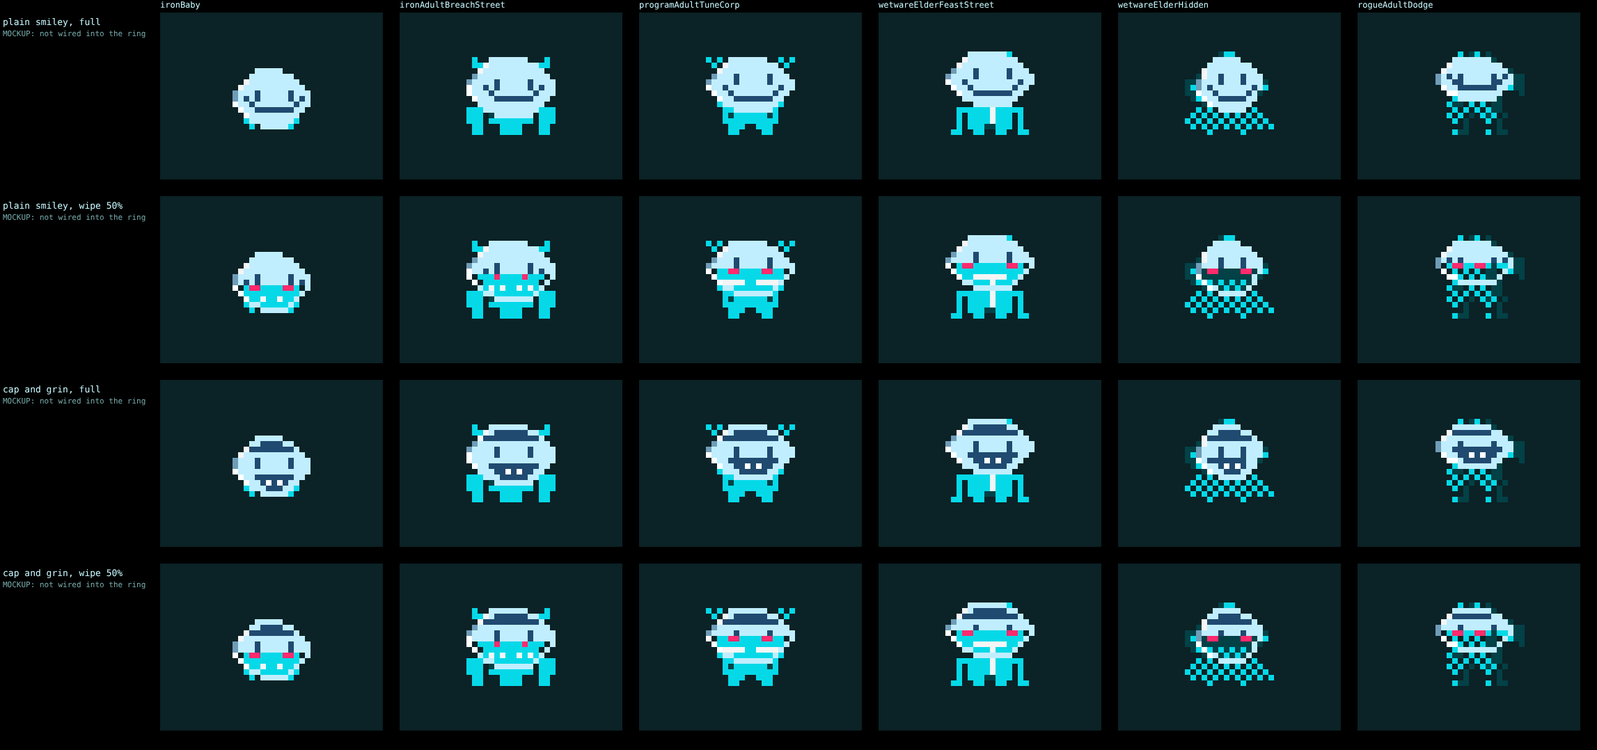
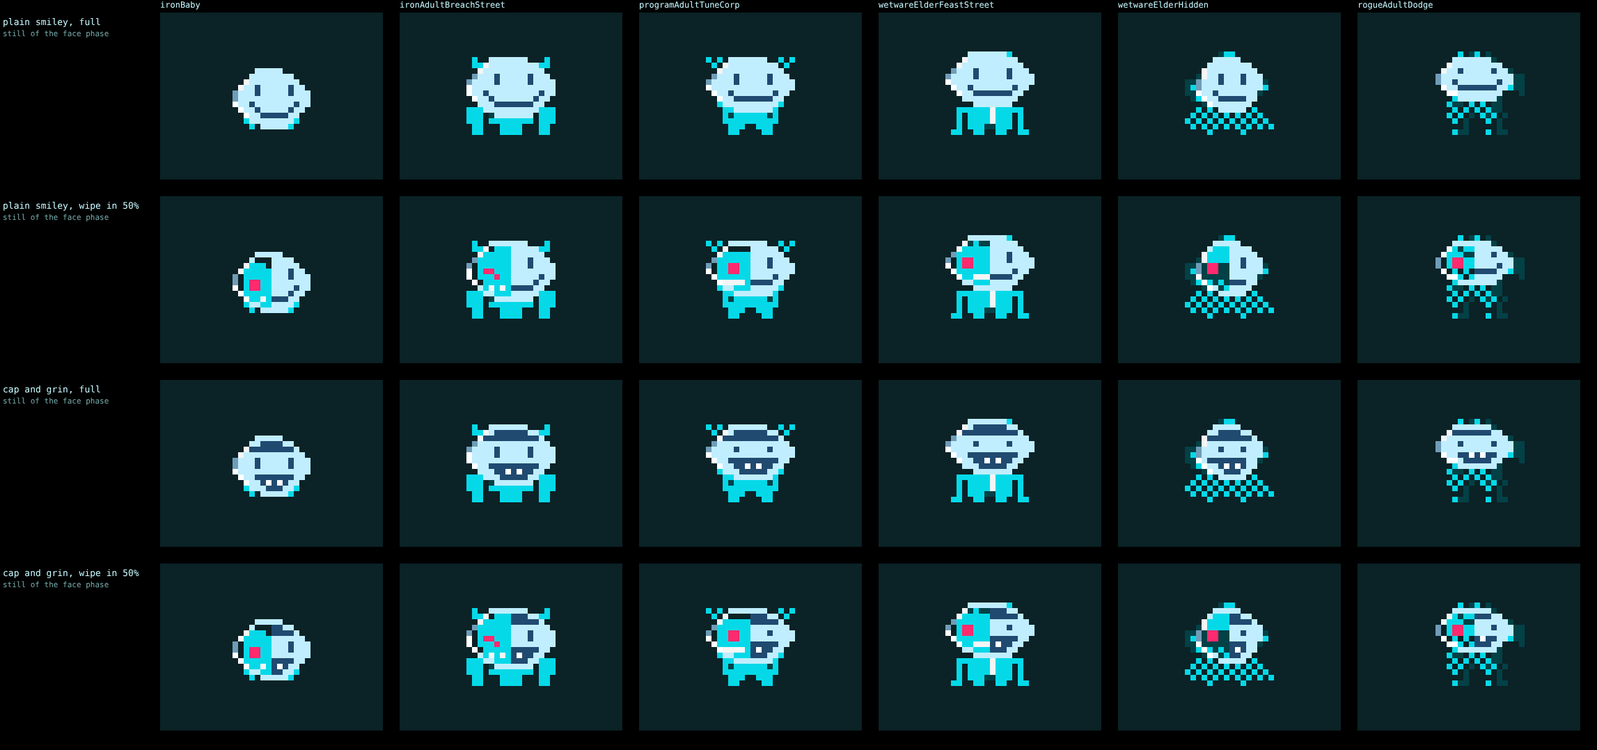
Light ring: the face phase, in two versions (smiley, cap and grin)
Every other lap the oval fills with a face from the right, holds 1.5 s and
clears from the right, while the glow keeps circling. The face layout is
computed per oval so the eyes always clear the mouth and cap (the first
smiley ran into its mouth on Rogue's Dodge adult). render.js calmWorn swaps
in a faceless ring asleep, in a visit and with reduced motion. Tests for the
layout on every form, the wipe and timing, and the calm swap.

Claude-Session: https://claude.ai/code/session_01Cs8Tn62A5tSs3mb1RKkHnQ

diff --git a/prototype/netling2/accessory-ideas.js b/prototype/netling2/accessory-ideas.js
@@ -204,12 +204,19 @@ export const IDEA_WEARABLES = [
       // colour for 200 ms; maintainer asked for a brighter ring and a faster pulse): a lap of about 2.5 to 4 s. Redrawn from the maintainer's memory of
       // the 2026-10-07 version for Blank (a continuous oval glow with a pulsing motion), which was never committed; the first redraw
       // (blue dashes, a dash every 400 ms) read as broken and shaded. Kept findable whole, motion included, as the doc says.
-      const [ring, glow] = colors ?? ['#c0eeff', '#ffffff'];
       // Behind the bright spot a dim wake moves with it (maintainer, 2026-10-12): two cells darker than the ring, then two halfway
       // back, then the ring again. The glow moves two cells a step, so every cell it passes shows white, dim and halfway for one step
-      // each (200 ms, the flash rule's floor).
-      drawRing(px, a, time, ring, glow);
+      // each (200 ms, the flash rule's floor). Every other lap the face (below, "the Light ring's face") wipes in and out.
+      ringWithFace('plain')(px, a, frame, time, colors);
     },
+    // Two versions, one per face (maintainer, 2026-10-12): this one with the plain smiley, laughingring.cap with the cap and grin.
+    variants: [
+      { id: 'laughingring', name: 'Light ring (smiley)', style: 'plain' },
+      { id: 'laughingring.cap', name: 'Light ring (cap and grin)', style: 'cap' },
+    ],
+    // What render.js calmWorn draws instead: no face asleep or in a visit, and a still ring with reduced motion.
+    quietId: 'laughingring.quiet',
+    stillId: 'laughingring.still',
   },
   {
     id: 'scanvisor',
@@ -512,15 +519,17 @@ function drawRing(px, a, time, ring, glow) {
   });
 }
 
-// --- the Light ring's face (mockups, 2026-10-12; not wired into the ring yet) ----------------------------------------------------
-// The maintainer's idea: every other lap the oval fills in with a smiley face, then clears, while the glow keeps circling; in and out
-// by a wipe, row by row from the top. Two face styles to compare, drawn as stills at a wipe stage: ringFace(px, a, style, shown),
-// where `shown` (0 to 1) is how much of the face the wipe has drawn, top down.
-//   plain: a smiley, two eyes and a grin.
-//   cap:   Laughing Man-ish: a cap (a dark dome and a brim line across the top), eyes under the brim, a wide grin with a tooth row.
-// The fill is the ring's colour, so ring and face read as one disc; the features are the wake's dark blue.
+// --- the Light ring's face (maintainer, 2026-10-12) --------------------------------------------------------------------------------
+// Every other lap the oval fills in with a face and clears again while the glow keeps circling. In and out by a wipe from right to left
+// both times: the face appears from the right edge, holds, then disappears from the right edge. Two versions of the ring, one per face:
+//   plain: a smiley, two eyes and a curved grin.
+//   cap:   Laughing Man-ish: a dark cap (dome and brim), eyes under it, a wide grin with a tooth row.
+// The fill is the ring's colour, so ring and face read as one disc; the features are the wake's dark blue. Not drawn asleep, during a
+// visit or with reduced motion (render.js calmWorn swaps in the faceless ring).
 export const FACE_STYLES = ['plain', 'cap'];
-// The cells inside the ring, row by row: { y0, y1, rows: Map(y -> [x0, x1]) }.
+export const FACE_MS = { fill: 800, hold: 1500, clear: 800 };
+const INK = '#204a70';
+// The cells inside the ring, row by row: { y0, y1, x0, x1, rows: Map(y -> [x0, x1]) }.
 export function ringInside(a) {
   const rows = new Map();
   for (const [x, y] of ringCells(a)) rows.set(y, [Math.min(x, rows.get(y)?.[0] ?? x), Math.max(x, rows.get(y)?.[1] ?? x)]);
@@ -530,67 +539,114 @@ export function ringInside(a) {
   const y0 = Math.min(...ys) + 1;
   const y1 = Math.max(...ys) - 1;
   for (const y of [...inside.keys()]) if (y < y0 || y > y1) inside.delete(y);
-  return { y0, y1, rows: inside };
+  const spans = [...inside.values()];
+  return { y0, y1, x0: Math.min(...spans.map((r) => r[0])), x1: Math.max(...spans.map((r) => r[1])), rows: inside };
 }
-export function ringFace(px, a, style, shown = 1, ring = '#c0eeff') {
-  const ink = '#204a70';
-  const { y0, y1, rows } = ringInside(a);
+// The face's features as cell lists, laid out top down so that the eyes always have a clear row between them and the mouth (and the
+// cap): on a small oval the eyes shrink to one row, the grin's corners climb one row instead of two, the cap loses its dome and the
+// toothy grin loses its bottom row. -> { eyes, mouth, cap, teeth } of [x, y].
+export function faceFeatures(a, style) {
+  const { y0, y1, x0: left, x1: right, rows } = ringInside(a);
   const H = y1 - y0 + 1;
-  const cx = Math.round((a.headLeft + a.headRight) / 2);
-  const last = y0 + Math.ceil(shown * H) - 1; // the wipe's lowest drawn row
-  const feature = new Map(); // "x,y" -> colour
-  const put = (x, y, c = ink) => feature.set(`${x},${y}`, c);
   const W = Math.max(...[...rows.values()].map(([x0, x1]) => x1 - x0 + 1));
-  const ex = Math.max(2, Math.round(W * 0.22)); // eye offset from the middle
+  const cx = Math.round((left + right) / 2); // the oval's middle, not the head's, so the face is symmetric inside it
+  const out = { eyes: [], mouth: [], cap: [], teeth: [] };
+  // keeps a cell only if it is inside its row of the oval with a cell to spare
+  const fits = (x, y) => rows.has(y) && x > rows.get(y)[0] && x < rows.get(y)[1];
+  const add = (part, x, y) => fits(x, y) && out[part].push([x, y]);
+  const ex = Math.max(2, Math.round(W * 0.22));
   if (style === 'plain') {
-    const eyeY = y0 + Math.round(H * 0.3);
-    for (const x of [cx - ex, cx + ex]) for (const dy of [0, 1]) put(x, eyeY + dy);
-    // a curved grin: a flat bottom and corners climbing two rows
-    const mY = y0 + Math.round(H * 0.72);
-    const mw = Math.max(2, Math.round(W * 0.3));
-    for (let x = cx - mw + 1; x <= cx + mw - 1; x++) put(x, mY);
-    for (const [d, dy] of [[mw, 1], [mw + 1, 2]]) {
-      put(cx - d, mY - dy);
-      put(cx + d, mY - dy);
-    }
+    const eh = H >= 8 ? 2 : 1;
+    const eyeY = y0 + Math.max(1, Math.round(H * 0.22));
+    for (const x of [cx - ex, cx + ex]) for (let dy = 0; dy < eh; dy++) add('eyes', x, eyeY + dy);
+    const top = eyeY + eh + 1; // the mouth's highest row: a clear row under the eyes
+    // corners climb two rows when there is height and width for it, else one
+    const climb = top + 2 <= y1 - 1 && W >= 10 ? 2 : 1;
+    const mY = Math.min(y1 - 1, Math.max(y0 + Math.round(H * 0.72), top + climb));
+    const mw = Math.max(2, Math.min(Math.round(W * 0.3), Math.floor(W / 2) - 1 - climb));
+    for (let x = cx - mw + 1; x <= cx + mw - 1; x++) add('mouth', x, mY);
+    for (let k = 1; k <= climb; k++) for (const d of [-(mw + k - 1), mw + k - 1]) add('mouth', cx + d, mY - k);
   } else {
-    // the cap: a dark dome over the top rows, a brim line under it reaching past the dome on the right
-    const brim = y0 + Math.max(1, Math.round(H * 0.22)) - (H <= 10 ? 1 : 0); // on small ovals a one-row dome, so the eyes keep a clear row above and below
+    const eh = H >= 9 ? 2 : 1;
+    const gh = H >= 8 ? 3 : 2;
+    const dome = Math.max(0, Math.min(Math.max(1, Math.round(H * 0.2)), H - (1 + 1 + eh + 1 + gh)));
+    const brim = y0 + dome;
     for (const [y, [x0, x1]] of rows) {
-      if (y < brim) for (let x = x0 + 1; x <= x1 - 1; x++) put(x, y);
-      if (y === brim) for (let x = x0; x <= x1; x++) put(x, y);
+      if (y < brim) for (let x = x0 + 1; x <= x1 - 1; x++) out.cap.push([x, y]);
+      if (y === brim) for (let x = x0; x <= x1; x++) out.cap.push([x, y]);
     }
     const eyeY = brim + 2;
-    for (const x of [cx - ex, cx + ex]) for (const dy of [0, 1]) put(x, eyeY + dy);
-    // the grin: a wide dark crescent with a row of teeth (white) inside it
-    const mY = Math.min(y1 - 2, eyeY + 3); // a clear row between the eyes and the grin (and the brim), so nothing joins into a frame
+    for (const x of [cx - ex, cx + ex]) for (let dy = 0; dy < eh; dy++) add('eyes', x, eyeY + dy);
+    const mY = eyeY + eh + 1;
     // Each grin row is centred on its own row of the oval and kept a cell inside it (the oval narrows towards the bottom).
     const mw = Math.max(3, Math.round(W * 0.36));
-    [0, 1, 2].forEach((dy) => {
+    for (let dy = 0; dy < gh; dy++) {
       const [x0, x1] = rows.get(mY + dy) ?? [cx, cx];
       const mid = Math.round((x0 + x1) / 2);
       const half = Math.min(mw - dy, Math.floor((x1 - x0) / 2) - 1);
-      for (let x = mid - half; x <= mid + half; x++) put(x, mY + dy, dy === 1 && x !== mid - half && x !== mid + half && (x - mid) % 2 ? '#ffffff' : ink);
-    });
+      for (let x = mid - half; x <= mid + half; x++) {
+        // every other cell of the teeth row (the middle row, or the top one on a two-row grin), or its one middle cell when narrow
+        const teethRow = gh === 3 ? 1 : 0;
+        const tooth = dy === teethRow && x !== mid - half && x !== mid + half && (half < 2 ? x === mid : (x - mid) % 2 !== 0);
+        add(tooth ? 'teeth' : 'mouth', x, mY + dy);
+      }
+    }
   }
-  for (const [y, [x0, x1]] of rows) {
-    if (y > last) continue;
-    for (let x = x0; x <= x1; x++) px(x, y, feature.get(`${x},${y}`) ?? ring);
-  }
+  return out;
 }
-// Mock entries for the review page only: the ring (glow where `time` puts it) with a face at a wipe stage. Ids
-// laughingring.face.<style>.<percent>.
+// Paints the face where show(x) is true (the wipe's mask), the fill everywhere else inside the ring.
+export function ringFace(px, a, style, show = () => true, ring = '#c0eeff') {
+  const f = faceFeatures(a, style);
+  const colour = new Map();
+  for (const part of ['eyes', 'mouth', 'cap']) for (const [x, y] of f[part]) colour.set(`${x},${y}`, INK);
+  for (const [x, y] of f.teeth) colour.set(`${x},${y}`, '#ffffff');
+  for (const [y, [x0, x1]] of ringInside(a).rows) for (let x = x0; x <= x1; x++) if (show(x)) px(x, y, colour.get(`${x},${y}`) ?? ring);
+}
+// Where the face is at `time`: null (not showing) or the wipe's mask over columns. The cycle is a whole number of laps (a lap is the
+// glow's way round, 100 ms a cell): the face starts at the second lap and the cycle is two laps, or three on a ring too small for the
+// face's 3.1 s to fit inside two, so the face never cuts off. The wipe moves a column at a time on a 100 ms clock.
+export function faceMask(a, time) {
+  const lap = ringCells(a).length * 100;
+  const total = FACE_MS.fill + FACE_MS.hold + FACE_MS.clear;
+  const laps = Math.max(2, 1 + Math.ceil(total / lap));
+  const u = Math.floor(((time ?? 0) % (laps * lap)) / 100) * 100 - lap;
+  if (u < 0 || u >= total) return null;
+  const { x0, x1 } = ringInside(a);
+  const width = x1 - x0 + 1;
+  if (u < FACE_MS.fill) {
+    const n = Math.ceil(((u + 100) / FACE_MS.fill) * width); // columns drawn so far, from the right
+    return (x) => x > x1 - n;
+  }
+  if (u < FACE_MS.fill + FACE_MS.hold) return () => true;
+  const gone = Math.ceil(((u - FACE_MS.fill - FACE_MS.hold + 100) / FACE_MS.clear) * width); // columns cleared, from the right
+  return (x) => x <= x1 - gone;
+}
+// The ring with its face phase, for each style.
+const ringWithFace = (style) => (px, a, frame, time = 0, colors) => {
+  const [ring, glow] = colors ?? ['#c0eeff', '#ffffff'];
+  const mask = faceMask(a, time);
+  if (mask) ringFace(px, a, style, mask, ring);
+  drawRing(px, a, time, ring, glow);
+};
+// The faceless rings render.js swaps in (calmWorn): asleep or in a visit the glow keeps circling; with reduced motion it stands still.
+export const RING_CALM = [
+  { id: 'laughingring.quiet', name: 'Light ring (asleep, in a visit)', draw: (px, a, frame, time = 0, colors) => drawRing(px, a, time, ...(colors ?? ['#c0eeff', '#ffffff'])) },
+  { id: 'laughingring.still', name: 'Light ring (reduced motion)', draw: (px, a, frame, time, colors) => drawRing(px, a, 0, ...(colors ?? ['#c0eeff', '#ffffff'])) },
+].map((x) => ({ ...x, slot: 'face', exclusive: true, version: 'only', paid: 'free (find)', colors: [['ring', '#c0eeff'], ['glow', '#ffffff']] }));
+// Stills for the review page: each face full and halfway through the wipe in (from the right). Ids laughingring.face.<style>.<percent>.
 export const RING_FACE_STAGES = [100, 50];
 export const RING_FACE_MOCKS = FACE_STYLES.flatMap((style) =>
   RING_FACE_STAGES.map((pct) => ({
     id: `laughingring.face.${style}.${pct}`,
-    name: `Light ring face: ${style === 'plain' ? 'plain smiley' : 'cap and grin'}, ${pct === 100 ? 'full' : `wipe ${pct}%`}`,
+    name: `Light ring face: ${style === 'plain' ? 'plain smiley' : 'cap and grin'}, ${pct === 100 ? 'full' : `wipe in ${pct}%`}`,
     slot: 'face',
     exclusive: true,
     version: 'only',
     paid: 'mockup',
     draw: (px, a, frame, time = 0) => {
-      ringFace(px, a, style, pct / 100);
+      const { x0, x1 } = ringInside(a);
+      const n = Math.ceil(((x1 - x0 + 1) * pct) / 100);
+      ringFace(px, a, style, (x) => x > x1 - n);
       drawRing(px, a, time, '#c0eeff', '#ffffff');
     },
   })),
@@ -849,6 +905,7 @@ const freeOf = (x, args) =>
 const versions = (list, args) =>
   list.flatMap((x) => {
     const base = { ...x, base: x.id };
+    if (x.variants) return x.variants.map((v) => ({ ...base, id: v.id, name: v.name, version: 'only', draw: args === 'wear' ? ringWithFace(v.style) : x.draw }));
     if (x.paid !== 'split' && x.paid !== 'paid') return [{ ...base, version: 'only' }];
     return [
       { ...base, id: x.id + FREE, name: `${x.name} (free)`, version: 'free', draw: freeOf(x, args) },
@@ -865,8 +922,8 @@ export function registerIdeas() {
   if (registered) return;
   registered = true;
   const taken = new Set(STYLE_ITEMS.map((x) => x.id));
-  for (const x of [...WEARABLE_ENTRIES, HEATSINK_HOT, ...RING_FACE_MOCKS, ...PROP_ENTRIES]) if (taken.has(x.id)) throw new Error(`style idea ${x.id} clashes with a 1.0 id`);
-  for (const x of [...WEARABLE_ENTRIES, HEATSINK_HOT, ...RING_FACE_MOCKS]) {
+  for (const x of [...WEARABLE_ENTRIES, HEATSINK_HOT, ...RING_CALM, ...RING_FACE_MOCKS, ...PROP_ENTRIES]) if (taken.has(x.id)) throw new Error(`style idea ${x.id} clashes with a 1.0 id`);
+  for (const x of [...WEARABLE_ENTRIES, HEATSINK_HOT, ...RING_CALM, ...RING_FACE_MOCKS]) {
     const entry = { ...x, rarity: 'common', source: 'earned', draw: x.draw };
     ACCESSORIES.push(entry);
     STYLE_ITEMS.push(entry);

diff --git a/prototype/netling2/accessory-ideas.test.js b/prototype/netling2/accessory-ideas.test.js
@@ -5,10 +5,10 @@ import './ready.js';
 import { test } from 'node:test';
 import assert from 'node:assert/strict';
 import { readFileSync } from 'node:fs';
-import { ringCells, registerIdeas, IDEA_WEARABLES, IDEA_PROPS, IDEA_CRESTS, WEARABLE_ENTRIES, PROP_ENTRIES, HEATSINK_HOT, FREE } from './accessory-ideas.js';
+import { ringCells, faceFeatures, faceMask, ringInside, FACE_MS, registerIdeas, IDEA_WEARABLES, IDEA_PROPS, IDEA_CRESTS, WEARABLE_ENTRIES, PROP_ENTRIES, HEATSINK_HOT, FREE } from './accessory-ideas.js';
 import { ACCESSORIES, PROPS, placeWorn, anchorsFor } from '../../src/accessories.js';
 import { FLASH_TOGGLE_MS } from '../../src/games/common.js';
-import { composeLCD, exclusiveWorn } from './render.js';
+import { composeLCD, exclusiveWorn, calmWorn } from './render.js';
 import { forms } from './models.js';
 import { programForms } from './program-models.js';
 import { wetwareForms } from './wetware-models.js';
@@ -184,4 +184,76 @@ test('the Light ring is worn alone on the face and over its area: other face ite
     }
   }
   assert.ok(keptSomething, 'something clear of the ring (the halo over the head) is still drawn on some form');
+});
+
+test('the Light ring\'s faces: on every form the eyes keep a clear row from the mouth and the cap, and every part shows', () => {
+  for (const { form } of ALL) {
+    for (const sprite of [form.a, form.b]) {
+      for (const style of ['plain', 'cap']) {
+        const f = faceFeatures(anchorsFor(sprite), style);
+        assert.equal(f.eyes.length >= 2, true, `${form.id} ${style}: eyes`);
+        assert.ok(f.mouth.length >= 3, `${form.id} ${style}: mouth`);
+        if (style === 'cap') assert.ok(f.cap.length >= 3 && f.teeth.length >= 1, `${form.id}: cap and teeth`);
+        const other = new Set([...f.mouth, ...f.cap, ...f.teeth].map(([x, y]) => `${x},${y}`));
+        for (const [x, y] of f.eyes) for (const dx of [-1, 0, 1]) for (const dy of [-1, 0, 1]) assert.ok(!other.has(`${x + dx},${y + dy}`), `${form.id} ${style}: an eye at ${x},${y} touches the mouth or cap`);
+      }
+    }
+  }
+});
+
+test('the face wipes in and out from right to left, every other lap (or third, on a small ring), and never cuts off', () => {
+  for (const { form } of [ALL[0], ...ALL.filter(({ form }) => ['ironAdultBreachStreet', 'rogueAdultDodge', 'wetwareElderHidden'].includes(form.id))]) {
+    const a = anchorsFor(form.a);
+    const { x0, x1 } = ringInside(a);
+    const lap = ringCells(a).length * 100;
+    const total = FACE_MS.fill + FACE_MS.hold + FACE_MS.clear;
+    const laps = Math.max(2, 1 + Math.ceil(total / lap));
+    assert.ok(lap + total <= laps * lap, `${form.id}: the face fits its cycle`);
+    const cols = (t) => {
+      const m = faceMask(a, t);
+      const out = [];
+      if (m) for (let x = x0; x <= x1; x++) if (m(x)) out.push(x);
+      return out;
+    };
+    assert.equal(faceMask(a, 0), null, 'no face in the first lap');
+    assert.equal(faceMask(a, lap - 100), null);
+    let prev = [];
+    for (let t = lap; t < lap + FACE_MS.fill; t += 100) {
+      const c = cols(t);
+      assert.ok(c.length && c.at(-1) === x1 && c.length >= prev.length, `${form.id} at ${t}: fills from the right`);
+      prev = c;
+    }
+    assert.equal(cols(lap + FACE_MS.fill).length, x1 - x0 + 1, 'full when the hold starts');
+    prev = cols(lap + FACE_MS.fill);
+    for (let t = lap + FACE_MS.fill + FACE_MS.hold; t < lap + total; t += 100) {
+      const c = cols(t);
+      assert.ok(c.length < prev.length && (!c.length || c[0] === x0), `${form.id} at ${t}: clears from the right`);
+      prev = c;
+    }
+    assert.equal(faceMask(a, lap + total), null, 'gone after the clear');
+    assert.ok(faceMask(a, laps * lap + lap + FACE_MS.fill), 'and back the next cycle');
+  }
+});
+
+test('both versions of the Light ring draw a face; asleep, in a visit and with reduced motion the renderer draws the faceless ring', () => {
+  const form = SETS.iron.ironAdultBreachStreet;
+  const a = anchorsFor(form.a);
+  const lap = ringCells(a).length * 100;
+  const pic = (id, t) => pixels((px) => ACCESSORIES.find((x) => x.id === id).draw(px, a, 0, t));
+  for (const id of ['laughingring', 'laughingring.cap']) assert.ok(pic(id, lap + 1000).split(' ').length > pic(id, 0).split(' ').length + 20, `${id} fills in`);
+  assert.notEqual(pic('laughingring', lap + 1000), pic('laughingring.cap', lap + 1000), 'two different faces');
+  for (const id of ['laughingring', 'laughingring.cap']) {
+    assert.deepEqual(calmWorn([{ id }, { id: 'halo' }], { calm: true }), [{ id: 'laughingring.quiet' }, { id: 'halo' }]);
+    assert.deepEqual(calmWorn([{ id }], { reduced: true }), [{ id: 'laughingring.still' }]);
+    assert.deepEqual(calmWorn([{ id }]), [{ id }]);
+  }
+  const ringOnly = ringCells(a).length;
+  for (let t = 0; t < 20_000; t += 100) assert.equal(pic('laughingring.quiet', t).split(' ').length, ringOnly, 'no face while quiet');
+  assert.equal(new Set([0, 3000, 9999].map((t) => pic('laughingring.still', t))).size, 1, 'still with reduced motion');
+  // Through the renderer: asleep, visiting and reduced all swap the ring.
+  const op = (pet, opts) => composeLCD({ form, egg: 'iron', idle: 'none', worn: [{ id: 'laughingring.cap' }], ...pet }, lap + 1000, opts).ops.find((o) => o.op === 'worn').list[0].id;
+  assert.equal(op({}), 'laughingring.cap');
+  assert.equal(op({ pose: 'sleep' }), 'laughingring.quiet');
+  assert.equal(op({ visit: true }), 'laughingring.quiet');
+  assert.equal(op({}, { reduced: true }), 'laughingring.still');
 });

diff --git a/prototype/netling2/accessory-ideas-preview.html b/prototype/netling2/accessory-ideas-preview.html
@@ -8,6 +8,7 @@
 // (render.js composeLCD), idle off so only the item moves. Sections by the hash (scale=n, t=ms freezes the clock for a screenshot):
 //   #sec=wear     every wearable entry (free and paid side by side for split and paid ideas) on six forms, one per egg plus a baby and Blank (Wetware's hidden elder, with its motion layer)
 //   #sec=motion   the moving wearables on one form, one column per 400 ms step (form=n, only=id)
+//   #sec=versions the Light ring's two versions (smiley, cap and grin) live
 //   #sec=face     mockups of the ring's face phase: two styles, full and mid-wipe
 //   #sec=ring     the Light ring alone, an outfit, and the outfit with the ring (what the ring hides)
 //   #sec=props    every prop entry beside one form, and the moving ones per step
@@ -86,9 +87,13 @@ if (SEC === 'wear') {
   const steps = Array.from({ length: 10 }, (_, i) => i);
   const ms = Number(hash.get('ms') ?? 400);
   sheet(rows, steps, (e) => [e.name.replace(/ \(paid\)$/, ''), e.version === 'paid' ? tag(e) : e.paid], (e, s) => composeLCD({ ...f, idle: 'none', worn: [{ id: e.id }] }, s * ms + 1), (s) => `${s * ms} ms`);
+} else if (SEC === 'versions') {
+  // The Light ring's two versions live: the face wipes in from the right every other lap, holds, and clears from the right.
+  const rows = [{ id: 'laughingring', name: 'Light ring (smiley)' }, { id: 'laughingring.cap', name: 'Light ring (cap and grin)' }];
+  sheet(rows, FORMS, (r) => [r.name, 'face every other lap'], (r, f, t) => composeLCD({ ...f, idle: 'none', worn: [{ id: r.id }] }, t + 1), (f) => f.form.id);
 } else if (SEC === 'face') {
-  // Mockups of the Light ring's face phase (accessory-ideas.js ringFace): two styles, full and halfway through the wipe.
-  sheet(RING_FACE_MOCKS, FORMS, (e) => [e.name.replace('Light ring face: ', ''), 'MOCKUP: not wired into the ring'], (e, f, t) => composeLCD({ ...f, idle: 'none', worn: [{ id: e.id }] }, t + 1), (f) => f.form.id);
+  // Stills of the Light ring's two faces (accessory-ideas.js ringFace): full and halfway through the wipe in, from the right.
+  sheet(RING_FACE_MOCKS, FORMS, (e) => [e.name.replace('Light ring face: ', ''), 'still of the face phase'], (e, f, t) => composeLCD({ ...f, idle: 'none', worn: [{ id: e.id }] }, t + 1), (f) => f.form.id);
 } else if (SEC === 'ring') {
   // The Light ring's exclusion (render.js exclusiveWorn): an outfit without the ring, then the same outfit with it, where the face item
   // and anything on or inside the ring are not drawn.

diff --git a/prototype/netling2/render.js b/prototype/netling2/render.js
@@ -175,7 +175,7 @@ export function composeLCD(pet, time, opts = {}) {
 
   // 5. Wearables, on the registered frame the tell wears (Program's blink keeps them on the open-eyed frame).
   if (worn.length && !form.hideWorn?.({ time, reduced })) {
-    const list = exclusiveWorn(worn, form[wearKey], { frame: tell.frame, time, pal });
+    const list = exclusiveWorn(calmWorn(worn, { calm: rest || visiting, reduced }), form[wearKey], { frame: tell.frame, time, pal });
     ops.push({ op: 'worn', list, sprite: form[wearKey], x, y, frame: tell.frame, dim: dimPet, time, pal });
   }
 
@@ -198,6 +198,16 @@ export function composeLCD(pet, time, opts = {}) {
   // 8. The Z while resting.
   if (rest) ops.push({ op: 'rows', rows: SPRITES.z, x: 30, y: 3 + TOP + frame, colors: { '#': dimPet ? Z_DIM : pal.main } });
   return { bg, ops, box };
+}
+
+// A wearable can name a calmer stand-in: `quietId` drawn while resting or in a visit, `stillId` with reduced motion (so far only the style
+// ideas' Light ring, whose face phase stops). 1.0's wearables name none and pass through unchanged.
+export function calmWorn(list, { calm = false, reduced = false } = {}) {
+  return list.map((w) => {
+    const acc = accessoryById(w.id);
+    const id = (reduced && acc?.stillId) || (calm && acc?.quietId) || w.id;
+    return id === w.id ? w : { ...w, id };
+  });
 }
 
 // An exclusive wearable (`exclusive: true` on its entry; so far only the style ideas' Light ring, accessory-ideas.js) is worn alone in its

diff --git a/docs/NETLING_2_ACCESSORY_IDEAS.md b/docs/NETLING_2_ACCESSORY_IDEAS.md
@@ -202,13 +202,13 @@ Every table above has a **Paid?** column. There is no monetization in 1.0 or in 
 
 ## Art drafts (2026-10-12)
 
-First drafts of every wearable (26), prop (10) and crest (5) above, in `prototype/netling2/accessory-ideas.js`. Shells, tints, effects, sounds, music and labels are not drawn. Wearables use 1.0's `draw(px, anchors, frame, time)`, props `draw(px, frame, time, extra)` with a size, crests 9x9; `registerIdeas()` adds them to 1.0's tables at run time (prototype only, `src/` untouched, `source: 'earned'` so they never enter drops, shops or visitor gifts), so the real `placeWorn` and `drawProp` place them through the 2.0 renderer.
+First drafts of every wearable (26, the Light ring in two versions), prop (10) and crest (5) above, in `prototype/netling2/accessory-ideas.js`. Shells, tints, effects, sounds, music and labels are not drawn. Wearables use 1.0's `draw(px, anchors, frame, time)`, props `draw(px, frame, time, extra)` with a size, crests 9x9; `registerIdeas()` adds them to 1.0's tables at run time (prototype only, `src/` untouched, `source: 'earned'` so they never enter drops, shops or visitor gifts), so the real `placeWorn` and `drawProp` place them through the 2.0 renderer.
 
 - **The Laughing Man ring, as the Light ring** (maintainer, 2026-10-12: shown under a different name; id still `laughingring`, nothing reserved). The 2026-10-07 drawing for Blank was never committed. A first redraw from the description (blue dashes, one white dash travelling) was rejected as broken and shaded; it is now drawn from the maintainer's memory of the original: **an unbroken pale oval** (`#c0eeff`, brightened from `#8fd8ff` at the maintainer's ask, one cell wide, every cell touching the next) from two cells outside the head's sides and two rows over the head top to two rows under the mouth, clear of the outline so it reads as a glow round the head, with **a glow sliding round it counterclockwise** (three white cells with a dim wake behind them that moves with the spot, maintainer 2026-10-12: two cells darker than the ring, then two halfway back; two cells every 200 ms: a lap of about 2.5 to 4 s; sped up at the maintainer's ask to the fastest the flash rule allows, since each cell must hold a colour for `FLASH_TOGGLE_MS`). Recolorable (ring and glow), so the blend check never splits it into two tones over the body. **It is exclusive** (maintainer): worn, it hides every other face item and any worn item with a pixel on the ring or inside it (row by row), which in practice is every head item; float items over the head and body items below the mouth stay. This lives in the prototype renderer (`render.js` `exclusiveWorn`, driven by `exclusive: true` on the item; 1.0's lists pass through unchanged); a 2.0 wardrobe would need to grey out what it hides. Before this it had only been seen on the Wetware hidden line; the review page shows it on six forms including Blank (`wetwareElderHidden`), and `#sec=ring` shows an outfit with and without it. GIF: `style-ideas-light-ring.gif` (6 s, all three rows of `#sec=ring`).
-- **The Light ring's face (mockups, 2026-10-12; not wired in).** The maintainer's idea: every other lap the oval fills in with a smiley face and clears again, by a wipe row by row from the top, while the glow keeps circling. Two styles, both asked for: a **plain smiley** (two eyes, a curved grin) and **cap and grin** (Laughing Man-ish: a dark cap and brim, eyes, a wide grin with a tooth row). The fill is the ring's colour, the features the wake's dark blue (`ringFace` in `accessory-ideas.js`; mock ids `laughingring.face.<style>.<percent>`). Review page `#sec=face` (full and halfway through the wipe on six forms), screenshot `style-ideas-light-ring-faces.png`. Words do not fit at this size. Open before wiring it in: which style; the timing (proposed: fill 0.8 s, hold 1.5 s, clear 0.8 s, every other lap); the face covers the eyes, so it should pause while asleep and during a visit; reduced motion shows the plain ring.
+- **The Light ring's face (2026-10-12, wired in).** Every other lap the oval fills in with a face and clears again while the glow keeps circling (maintainer). In and out by a **wipe from right to left both times**: the face appears from the right edge, holds, and disappears from the right edge. Timing (decided): fill 0.8 s, hold 1.5 s, clear 0.8 s, starting at the second lap of a two-lap cycle (three laps on a ring whose lap is too short for the face to fit, so it never cuts off; a lap is 100 ms a cell). **Two versions of the ring** (maintainer: both kept): `laughingring`, **Light ring (smiley)** (two eyes, a curved grin), and `laughingring.cap`, **Light ring (cap and grin)** (Laughing Man-ish: a dark cap and brim, eyes, a wide grin with a tooth row). The fill is the ring's colour, the features the wake's dark blue. The layout is computed per oval (`faceFeatures`): the eyes always keep a clear row from the mouth and the cap, and on small ovals the eyes drop to one row, the smile's corners climb one row instead of two, the cap loses its dome and the grin its bottom row (the first draft's smiley ran its eyes into its mouth on Rogue's Dodge adult). **No face asleep, in a visit or with reduced motion** (decided): the renderer swaps in a faceless ring (`render.js` `calmWorn`, driven by `quietId` and `stillId` on the item; asleep and in a visit the glow keeps circling, with reduced motion the ring stands still). Review page `#sec=versions` (live) and `#sec=face` (stills, full and halfway through the wipe in); `style-ideas-light-ring-faces.png`, `style-ideas-light-ring-versions.gif`. Words do not fit at this size.
 - **Free and paid versions.** A **split** idea draws as its animated (paid) version under its id and as a free version (id + `.free`) that is exactly one frame of the animation, the reduced-motion picture. A **paid** idea has no free version in the tables above, so its free comparison is a plainer still drawing (the Thought bubble empty; the Desk terminal without stand or cursor; the Noodle cup without steam or band; the Lava lamp with one resting blob; the arcade cabinet with a dark screen). The Heat sink is drawn plain, with its Overclock glow as a separate review-only entry.
 - **Review page:** `prototype/netling2/accessory-ideas-preview.html` (`#sec=wear`, `motion`, `props`, `crests`; `scale=n`, `t=ms` to freeze), served by `npm run serve`. Screenshots: `docs/netling2-prototypes/shots/style-ideas-wearables.png`, `style-ideas-light-ring-blank.png`, `style-ideas-light-ring.gif`, `style-ideas-wearables-motion.png`, `style-ideas-props.png`, `style-ideas-crests.png`.
-- **Tests:** `accessory-ideas.test.js` (10, in `npm run proto:test`): the Light ring is an unbroken loop on every form and its exclusion holds on every form; every idea in these tables has art with the table's Paid? value; a split's free version is a frame of its animation and a paid one's is not; nothing leaves the top of the 2.0 screen on any of the 76 forms at the highest each frame stands in 1.0's idles; every cell holds each colour at least `FLASH_TOGGLE_MS`; the still ideas do not move; props stay inside their size; crests are 9x9.
+- **Tests:** `accessory-ideas.test.js` (13, in `npm run proto:test`): the Light ring is an unbroken loop on every form and its exclusion holds on every form; its faces keep the eyes clear of the mouth and cap on every form; the wipe runs right to left in and out on the decided timing and never cuts off; both versions draw a face and the renderer swaps in the faceless ring asleep, in a visit and with reduced motion; every idea in these tables has art with the table's Paid? value; a split's free version is a frame of its animation and a paid one's is not; nothing leaves the top of the 2.0 screen on any of the 76 forms at the highest each frame stands in 1.0's idles; every cell holds each colour at least `FLASH_TOGGLE_MS`; the still ideas do not move; props stay inside their size; crests are 9x9.
 - **Not done:** the blend check against every palette (only palette 0 was looked at; `placeWorn` swaps fixed colours that blend into the body, as for 1.0's), the room rules when worn with other items (1.0's `ROOM` table is internal to `src/accessories.js`, so body ideas do not slide past face items and float ideas do not rise over hats), the Lava lamp's floor glow with the lights off (1.0's `drawProp` dims every prop), the four-egg review render beyond the five forms on the page, and any device check. The overlaps the next list names were looked at in screenshots only.
 - **Judgement calls to review:** War paint is dark by default (the doc's contrasting colour; pink merged with the default eyes); the Notification badge is 5x7 to fit a readable digit; the Thought bubble's chip, heart and skull are 5x3; the Bit swarm and Mini satellite step a cell every 400 ms (1.0's Drone moves continuously) so the flash test holds.
 

diff --git a/CLAUDE.md b/CLAUDE.md
@@ -20,7 +20,7 @@ npm run balance   # lifetime simulations per player archetype (JSON=1, LIVES=n, 
 npm run serve     # http://localhost:5174
 
 # Netling 2.0 sprite prototype (prototype/netling2/, not shipped; see docs/NETLING_2_SPRITES.md)
-npm run proto:test     # its tests (475)
+npm run proto:test     # its tests (478)
 npm run proto:temper   # the temper tell against 1.0's idle and wearables (measurements, not rules)
 npm run proto:balance  # the 2.0 core-rules simulator (prototype/netling2/sim/): lifetime simulations per archetype, same settings as npm run balance plus CLEAR, PREF, PREFBOT, BUGS
 node prototype/netling2/baseline/run-all.mjs   # the 2.0 simulator baseline: every sweep at 1000 lives into prototype/netling2/baseline/results (resumable; read its README first; never import the file, importing runs it)
